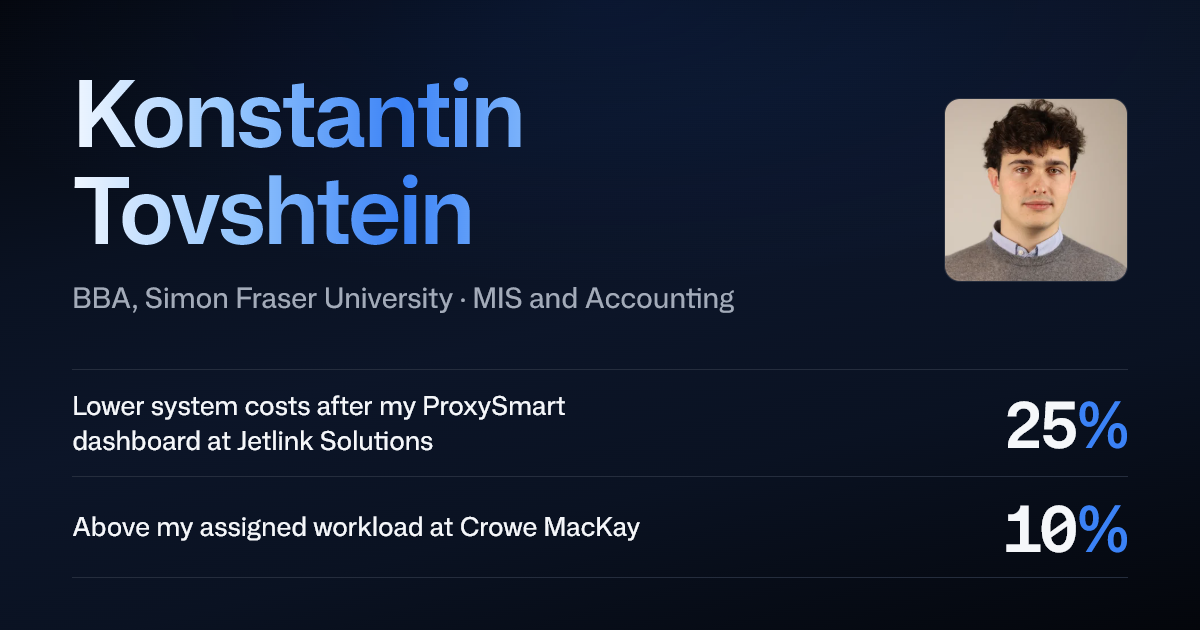
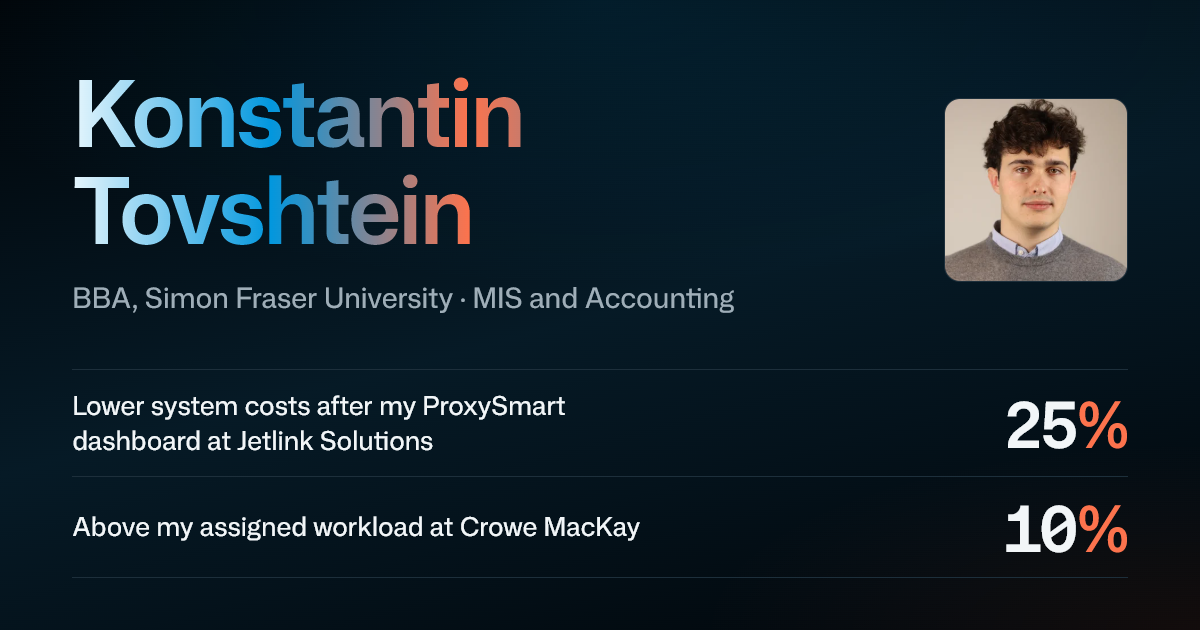
New color scheme

diff --git a/css/style.css b/css/style.css
@@ -1,1 +1,1 @@
-:root{color-scheme:dark;--bg: #05070c;--surface-2: #161d2c;--border: #252d3d;--line: rgb(255 255 255 / 0.08);--text: #f5f7fa;--text-muted: #a3abb9;--text-dim: #7c8597;--accent: #3b82f6;--accent-btn: #2563eb;--accent-hover: #1d4ed8;--accent-mist: #93c5fd;--accent-light: #dbeafe;--on-accent: #ffffff;--accent-rgb: 59 130 246;--accent-btn-rgb: 37 99 235;--glass-rgb: 18 24 38;--bg-rgb: 5 7 12;--font-sans: 'KT Sans', 'KT Sans Fallback', system-ui, sans-serif;--nav-h: 5.6rem;--transition: 200ms ease}@font-face{font-family:"KT Sans";font-style:normal;font-display:swap;font-weight:400 800;font-stretch:100% 125%;src:url("../assets/fonts/kt-sans-latin-var.woff2") format("woff2-variations"),url("../assets/fonts/kt-sans-latin-var.woff2") format("woff2");unicode-range:U+0000-00FF,U+0131,U+0152-0153,U+02BB-02BC,U+02C6,U+02DA,U+02DC,U+0304,U+0308,U+0329,U+2000-206F,U+20AC,U+2122,U+2190-2199,U+2212,U+2215,U+FEFF,U+FFFD}@font-face{font-family:"KT Sans Fallback";src:local("Arial"),local("ArialMT"),local("Helvetica Neue"),local("Helvetica"),local("Arimo"),local("Liberation Sans");size-adjust:101.22%;ascent-override:107.69%;descent-override:31.62%;line-gap-override:0%}*,*::after,*::before{margin:0;padding:0;box-sizing:inherit;font-family:inherit}html{font-size:62.5%;scroll-behavior:smooth;background:var(--bg)}body{font-size:1.6rem;font-weight:430;line-height:1.65;text-wrap:pretty;box-sizing:border-box;position:relative;overflow-x:hidden;overflow-y:scroll;font-family:var(--font-sans);font-feature-settings:"kern" 1,"ss05" 1,"ss06" 1;color:var(--text);-webkit-font-smoothing:antialiased;-moz-osx-font-smoothing:grayscale}h1,h2,h3,h4{font-weight:inherit;text-wrap:balance}p,li,figcaption{text-wrap:pretty}a{text-decoration:none;color:inherit}li{list-style:none}img{display:block;max-width:100%}strong{font-weight:600;color:var(--text)}::-moz-selection{background:var(--accent-btn);color:var(--on-accent)}::selection{background:var(--accent-btn);color:var(--on-accent)}.sr-only{position:absolute;width:1px;height:1px;overflow:hidden;clip-path:inset(50%);white-space:nowrap}.skip-link{position:absolute;top:1.2rem;left:1.6rem;z-index:2000;font-size:1.5rem;font-weight:600;line-height:1.4;padding:1.2rem 2rem;background:var(--accent-btn);color:var(--on-accent);border-radius:8px;transform:translateY(-200%);transition:transform var(--transition)}.skip-link:focus{transform:translateY(0)}main:focus{outline:none}:focus{outline:none}:focus-visible{outline:2px solid var(--accent);outline-offset:3px}button{border:none;cursor:pointer;background:none;color:inherit}@media(prefers-reduced-motion: reduce){html{scroll-behavior:auto}*,*::before,*::after{animation-duration:.01ms !important;animation-iteration-count:1 !important;transition-duration:.01ms !important}}.page-bg{position:fixed;inset:0;z-index:-1;pointer-events:none;background:radial-gradient(90% 70% at 50% 0%, rgb(var(--accent-btn-rgb)/0.12), transparent 65%),linear-gradient(165deg, #04060b 0%, #0a1222 30%, #0c1528 50%, #0a1222 70%, #04060b 100%)}.page-bg__streaks{display:block;width:100%;height:100%;opacity:.5;transition:opacity 1.4s ease}.page-home .page-bg__streaks{opacity:1}.page-home.past-hero .page-bg__streaks{opacity:.35}.nav{position:fixed;top:0;left:0;right:0;z-index:100;background:rgb(var(--bg-rgb)/0.7);backdrop-filter:blur(10px);border-bottom:1px solid var(--line)}.nav__inner{max-width:104rem;height:var(--nav-h);margin:0 auto;padding:0 2.4rem;display:flex;align-items:center;justify-content:space-between;gap:1.6rem}@media only screen and (max-width: 37.5em){.nav__inner{padding:0 1.2rem 0 1.6rem}}.nav__logo{font-size:1.5rem;font-weight:600;line-height:1.4;color:var(--text);transition:color var(--transition)}.nav__logo:hover{color:var(--accent-mist)}@media only screen and (max-width: 37.5em){.nav__logo{width:-moz-min-content;width:min-content;line-height:1.15}}.nav__links{display:flex}@media only screen and (max-width: 37.5em){.nav__links li:first-child{display:none}}.nav__link{font-size:1.5rem;font-weight:600;line-height:1.4;font-weight:500;display:block;padding:1.2rem 1rem;color:var(--text-muted);transition:color var(--transition)}.nav__link:hover,.nav__link[aria-current=page]{color:var(--text)}@media only screen and (max-width: 37.5em){.nav__link{padding-inline:.6rem}}.btn{font-size:1.5rem;font-weight:600;line-height:1.4;display:inline-flex;align-items:center;justify-content:center;min-height:4.4rem;padding:1rem 2.6rem;border:1px solid rgb(var(--accent-rgb)/0.6);border-radius:8px;background:var(--accent-btn);color:var(--on-accent);transition:background-color var(--transition)}.btn:hover{background:var(--accent-hover)}.text-link{font-size:1.5rem;font-weight:600;line-height:1.4;font-weight:500;display:inline-block;padding:1.2rem 0;color:var(--accent-mist);transition:color var(--transition)}.text-link:hover{color:var(--accent-light)}.pills{display:flex;flex-wrap:wrap;gap:1rem}.pill{font-size:1.5rem;font-weight:600;line-height:1.4;font-weight:500;display:inline-flex;align-items:center;gap:.8rem;min-height:4.4rem;padding:.6rem 1.6rem;border:1px solid rgba(255, 255, 255, 0.1);border-radius:999px;background:rgba(255, 255, 255, 0.04);color:var(--text-muted);transition:color var(--transition),border-color var(--transition),background-color var(--transition)}.pill:hover{color:var(--text);border-color:rgb(var(--accent-rgb)/0.45);background:rgb(var(--accent-btn-rgb)/0.14)}.pill--icon{width:4.4rem;padding:0;justify-content:center}.pill__icon{flex-shrink:0;width:1.8rem;height:1.8rem}.tags{display:flex;flex-wrap:wrap;gap:.8rem}.tag{font-size:1.25rem;font-weight:550;line-height:1.4;letter-spacing:.01em;padding:.4rem 1.1rem;border:1px solid rgba(255, 255, 255, 0.12);border-radius:999px;background:rgba(255, 255, 255, 0.03);color:var(--text-muted)}.label{font-size:1.25rem;font-weight:550;line-height:1.4;letter-spacing:.01em;display:inline-block;padding:.3rem .8rem;border-radius:4px;background:rgb(var(--accent-btn-rgb)/0.28);color:var(--accent-light)}.badge{font-size:1.25rem;font-weight:550;line-height:1.4;letter-spacing:.01em;display:inline-flex;align-items:center;gap:.6rem;color:var(--text-muted);white-space:nowrap}.badge svg{flex-shrink:0}.container{max-width:76.8rem;margin:0 auto;padding:0 2.4rem}.container--wide{max-width:96rem}@media only screen and (max-width: 37.5em){.container{padding:0 1.6rem}}.section{padding:4rem 0;scroll-margin-top:var(--nav-h)}.section-title{font-size:2.1rem;font-weight:650;line-height:1.3;letter-spacing:-0.02em;color:var(--text);min-height:1.3em;margin-bottom:2.4rem}.type-caret{display:inline-block;width:2px;height:1em;margin-left:2px;background:currentColor;vertical-align:text-bottom;animation:caret-blink 1s step-end infinite}@keyframes caret-blink{50%{opacity:0}}.panel{background:rgb(var(--glass-rgb)/0.45);backdrop-filter:blur(10px);border:1px solid var(--line);box-shadow:0 2px 16px rgba(0, 0, 0, 0.12);border-radius:12px;padding:3.6rem 2.8rem}@media only screen and (max-width: 37.5em){.panel{padding:2.4rem 2rem}}.js .reveal{opacity:0;transform:translateY(2.8rem);transition:opacity .9s ease-out,transform .9s ease-out}.js .reveal.is-visible{opacity:1;transform:none}@media(prefers-reduced-motion: reduce){.js .reveal{opacity:1;transform:none}}.project-list{display:grid;gap:2rem}.project-grid{display:grid;grid-template-columns:repeat(2, 1fr);gap:2rem}@media only screen and (max-width: 56.25em){.project-grid{grid-template-columns:1fr}}.project-card{background:rgb(var(--glass-rgb)/0.45);backdrop-filter:blur(10px);border:1px solid var(--line);box-shadow:0 2px 16px rgba(0, 0, 0, 0.12);display:flex;flex-direction:column;padding:2rem 2.4rem 2.4rem;border-radius:8px;overflow:hidden;color:inherit;transition:background-color var(--transition),border-color var(--transition),transform 220ms ease}.project-card__media{height:18rem;margin:-2rem -2.4rem 1.8rem;background:rgba(0, 0, 0, 0.25)}.project-card__media img{width:100%;height:100%;-o-object-fit:cover;object-fit:cover;-o-object-position:center top;object-position:center top;transition:transform 250ms ease}.project-card__top{display:flex;flex-wrap:wrap;align-items:center;justify-content:space-between;gap:.8rem 1.6rem;margin-bottom:1.2rem}.project-card__title{font-size:1.8rem;font-weight:650;line-height:1.35;letter-spacing:-0.01em;text-wrap:balance;color:var(--text);margin-bottom:.8rem}.project-card__desc{font-size:1.6rem;font-weight:430;line-height:1.65;text-wrap:pretty;color:var(--text-muted);margin-bottom:1.8rem}.project-card .tags{margin-top:auto}a.project-card:hover{background-color:rgba(28, 38, 60, 0.55);border-color:rgb(var(--accent-rgb)/0.3);transform:translateY(-2px)}a.project-card:hover .project-card__media img{transform:scale(1.03)}.see-all{margin-top:1.2rem}.entry{padding-bottom:2.8rem;border-bottom:1px solid var(--line)}.entry+.entry{padding-top:2.8rem}.entry:last-child{padding-bottom:0;border-bottom:0}.entry__head{display:flex;flex-wrap:wrap;align-items:flex-start;gap:.4rem 1.8rem}.entry__titles{flex:1;min-width:0}.entry__when{font-size:1.4rem;font-weight:430;line-height:1.5;color:var(--text-dim);text-align:right;white-space:nowrap}@media only screen and (max-width: 37.5em){.entry__when{flex-basis:100%;padding-left:6.6rem;text-align:left}.entry__when p{display:inline}.entry__when p+p::before{content:" · "}}.entry__logo{flex:none;display:grid;place-items:center;width:5.6rem;height:5.6rem;border:1px solid rgb(var(--accent-rgb)/0.3);border-radius:1rem;background:rgb(var(--accent-btn-rgb)/0.14);color:var(--accent-mist);font-size:1.5rem;font-weight:700;letter-spacing:.02em}@media only screen and (max-width: 37.5em){.entry__logo{width:4.8rem;height:4.8rem;font-size:1.35rem}}.entry__role{font-size:1.8rem;font-weight:650;line-height:1.35;letter-spacing:-0.01em;text-wrap:balance;font-size:1.7rem;color:var(--text)}.entry__org{font-size:1.5rem;font-weight:430;line-height:1.5;color:var(--text-muted);margin-top:.2rem}.entry__meta{font-size:1.4rem;font-weight:430;line-height:1.5;color:var(--text-dim);margin-top:.2rem}.entry__points{margin:1.6rem 0 1.2rem;padding-left:2rem}.entry__points li{font-size:1.6rem;font-weight:430;line-height:1.65;text-wrap:pretty;list-style:disc;color:var(--text-muted);margin-bottom:.6rem}.entry__points li::marker{color:var(--text-dim)}.entry__skills{font-size:1.4rem;font-weight:430;line-height:1.5;color:var(--text-dim)}.entry__links{display:flex;flex-wrap:wrap;gap:0 2.4rem;margin-top:.4rem}.contact{padding-bottom:10rem}.contact__head{display:flex;flex-wrap:wrap;align-items:center;justify-content:space-between;gap:1rem 2rem;margin-bottom:1.6rem}.contact__head .section-title{margin-bottom:0}.contact__intro{font-size:1.6rem;font-weight:430;line-height:1.65;text-wrap:pretty;color:var(--text-muted);margin-bottom:2.4rem}.contact__actions{display:flex;flex-wrap:wrap;align-items:center;gap:1.2rem 2rem}.contact__email,.contact__alt{font-size:1.5rem;font-weight:430;line-height:1.5;color:var(--text-muted)}.contact__email a,.contact__alt a{color:var(--accent-mist);text-decoration:underline;text-underline-offset:.4rem;overflow-wrap:anywhere}.contact__alt{margin-top:2.4rem}html.lenis,html.lenis body{height:auto}html.lenis{scroll-behavior:auto}.lenis:not(.lenis-autoToggle).lenis-stopped{overflow:clip}.lenis [data-lenis-prevent],.lenis [data-lenis-prevent-wheel],.lenis [data-lenis-prevent-touch],.lenis [data-lenis-prevent-vertical],.lenis [data-lenis-prevent-horizontal]{overscroll-behavior:contain}.lenis.lenis-smooth iframe{pointer-events:none}.lenis.lenis-autoToggle{transition-property:overflow;transition-duration:1ms;transition-behavior:allow-discrete}section[tabindex="-1"]:focus{outline:none}.hero{position:relative;min-height:100vh;min-height:100svh;display:flex;align-items:center;justify-content:center;padding:calc(var(--nav-h) + 2rem) 1.6rem 8rem;text-align:center}.hero__content{max-width:96rem}.hero__name{font-size:clamp(5.6rem,15vw,11.2rem);font-weight:650;line-height:1.08;letter-spacing:-0.03em;margin-bottom:1.6rem;background-image:linear-gradient(90deg, #eff6ff 0%, #93c5fd 12.5%, #3b82f6 25%, #93c5fd 37.5%, #eff6ff 50%, #93c5fd 62.5%, #3b82f6 75%, #93c5fd 87.5%, #eff6ff 100%);background-size:200% 100%;background-position:100% 50%;-webkit-background-clip:text;background-clip:text;color:transparent;animation:name-wave 8s linear infinite}.hero__sub{font-size:1.8rem;font-weight:430;line-height:1.65;text-wrap:pretty;color:var(--text-muted)}.hero__arrow{position:absolute;bottom:2.4rem;left:50%;transform:translateX(-50%);display:grid;place-items:center;width:4.4rem;height:4.4rem;color:rgba(255, 255, 255, 0.6);opacity:0;animation:arrow-in .6s ease 1.2s forwards;transition:color var(--transition)}.hero__arrow:hover{color:rgba(255, 255, 255, 0.95)}.hero__arrow-icon{width:0;height:0;border-left:6px solid transparent;border-right:6px solid transparent;border-top:8px solid currentColor}@keyframes name-wave{to{background-position:0% 50%}}@keyframes arrow-in{to{opacity:1}}.intro{display:flex;align-items:center;gap:4rem}.intro__text{flex:1;min-width:0}.intro__lead{font-size:1.8rem;font-weight:430;line-height:1.65;text-wrap:pretty;color:var(--text-muted);margin-bottom:2.4rem}.intro__photo{flex:none;width:14rem;height:14rem;-o-object-fit:cover;object-fit:cover;border:1px solid var(--line);border-radius:12px;filter:grayscale(30%) contrast(0.95)}@media only screen and (max-width: 37.5em){.intro{flex-direction:column-reverse;align-items:flex-start;gap:2.4rem}.intro__photo{width:11rem;height:11rem}}.skill-groups{display:grid;grid-template-columns:repeat(2, 1fr);gap:2.8rem 3.6rem}@media only screen and (max-width: 37.5em){.skill-groups{grid-template-columns:1fr}}.skill-group__title{font-size:1.35rem;font-weight:650;line-height:1.4;letter-spacing:.06em;text-transform:uppercase;font-feature-settings:"kern" 1,"ss05" 1,"ss06" 1,"case" 1;color:var(--text-muted);margin-bottom:1.2rem}.note{font-size:1.6rem;font-weight:430;line-height:1.65;text-wrap:pretty;max-width:34em;margin-top:3.2rem;color:var(--text-muted)}.mini-grid{display:grid;grid-template-columns:repeat(2, 1fr);gap:2rem}@media only screen and (max-width: 37.5em){.mini-grid{grid-template-columns:1fr}}.mini{background:rgb(var(--glass-rgb)/0.45);backdrop-filter:blur(10px);border:1px solid var(--line);box-shadow:0 2px 16px rgba(0, 0, 0, 0.12);padding:2.2rem 2.4rem;border-radius:8px}.mini__title{font-size:1.8rem;font-weight:650;line-height:1.35;letter-spacing:-0.01em;text-wrap:balance;font-size:1.7rem;color:var(--text);margin-bottom:.8rem}.mini__desc{font-size:1.6rem;font-weight:430;line-height:1.65;text-wrap:pretty;color:var(--text-muted)}.page-head{padding:calc(var(--nav-h) + 7rem) 0 1rem;text-align:center}.page-title{font-size:clamp(4.4rem,10vw,7.2rem);font-weight:650;line-height:1.1;letter-spacing:-0.03em;min-height:1.1em;margin-bottom:3.6rem;color:var(--accent-mist)}.projects-intro{padding:2.4rem 2.8rem;text-align:left}.projects-intro__text{font-size:1.6rem;font-weight:430;line-height:1.65;text-wrap:pretty;color:var(--text-muted);margin-bottom:1.8rem}.category{padding-top:4.8rem;scroll-margin-top:calc(var(--nav-h) + 1.6rem)}.category:last-of-type{padding-bottom:10rem}.category__title{font-size:1.35rem;font-weight:650;line-height:1.4;letter-spacing:.06em;text-transform:uppercase;font-feature-settings:"kern" 1,"ss05" 1,"ss06" 1,"case" 1;color:var(--text-muted);margin-bottom:1.6rem}.case-page{padding:calc(var(--nav-h) + 4rem) 0 8rem}.case{background:rgb(var(--glass-rgb)/0.45);backdrop-filter:blur(10px);border:1px solid var(--line);box-shadow:0 2px 16px rgba(0, 0, 0, 0.12);padding:3.6rem 3.2rem;border-radius:12px}@media only screen and (max-width: 37.5em){.case{padding:2.4rem 2rem}}.case__back{margin-bottom:.8rem}.case__back a{font-size:1.5rem;font-weight:430;line-height:1.5;display:inline-block;padding:1rem 0;color:var(--accent-mist);transition:color var(--transition)}.case__back a:hover{color:var(--accent-light)}.case__title{font-size:2.8rem;font-weight:650;line-height:1.25;letter-spacing:-0.02em;text-wrap:balance;color:var(--text);margin-bottom:1rem}.case__desc{font-size:1.6rem;font-weight:430;line-height:1.65;text-wrap:pretty;color:var(--text-muted)}.case__meta{display:flex;flex-wrap:wrap;align-items:center;justify-content:space-between;gap:.4rem 2rem;margin-top:1rem}.case__links{display:flex;flex-wrap:wrap;gap:0 2.4rem}.case__figure{margin:2.8rem 0 .8rem}.case__figure img{width:100%;height:auto;border:1px solid var(--line);border-radius:8px}.case__figure figcaption{font-size:1.4rem;font-weight:430;line-height:1.5;margin-top:1.2rem;text-align:center;text-wrap:balance;color:var(--text-dim)}.case__section{margin-top:3.2rem}.case__section h2{font-size:1.35rem;font-weight:650;line-height:1.4;letter-spacing:.06em;text-transform:uppercase;font-feature-settings:"kern" 1,"ss05" 1,"ss06" 1,"case" 1;color:var(--text);margin-bottom:1.2rem}.case__section p{font-size:1.6rem;font-weight:430;line-height:1.65;text-wrap:pretty;max-width:34em;color:var(--text-muted);margin-bottom:1.4rem}
+:root{color-scheme:dark;--bg: #02070a;--surface-2: #0b1821;--border: #1d2f3b;--line: rgb(255 255 255 / 0.08);--text: #f2f6f8;--text-muted: #9faeb8;--text-dim: #758794;--accent: #0297de;--accent-hover: #28a7e3;--accent-mist: #5bbbea;--warm: #fc734d;--on-accent: #02070a;--accent-rgb: 2 151 222;--warm-rgb: 252 115 77;--glass-rgb: 12 24 32;--bg-rgb: 2 7 10;--font-sans: 'KT Sans', 'KT Sans Fallback', system-ui, sans-serif;--nav-h: 5.6rem;--transition: 200ms ease}@font-face{font-family:"KT Sans";font-style:normal;font-display:swap;font-weight:400 800;font-stretch:100% 125%;src:url("../assets/fonts/kt-sans-latin-var.woff2") format("woff2-variations"),url("../assets/fonts/kt-sans-latin-var.woff2") format("woff2");unicode-range:U+0000-00FF,U+0131,U+0152-0153,U+02BB-02BC,U+02C6,U+02DA,U+02DC,U+0304,U+0308,U+0329,U+2000-206F,U+20AC,U+2122,U+2190-2199,U+2212,U+2215,U+FEFF,U+FFFD}@font-face{font-family:"KT Sans Fallback";src:local("Arial"),local("ArialMT"),local("Helvetica Neue"),local("Helvetica"),local("Arimo"),local("Liberation Sans");size-adjust:101.22%;ascent-override:107.69%;descent-override:31.62%;line-gap-override:0%}*,*::after,*::before{margin:0;padding:0;box-sizing:inherit;font-family:inherit}html{font-size:62.5%;scroll-behavior:smooth;background:var(--bg)}body{font-size:1.6rem;font-weight:430;line-height:1.65;text-wrap:pretty;box-sizing:border-box;position:relative;overflow-x:hidden;overflow-y:scroll;font-family:var(--font-sans);font-feature-settings:"kern" 1,"ss05" 1,"ss06" 1;color:var(--text);-webkit-font-smoothing:antialiased;-moz-osx-font-smoothing:grayscale}h1,h2,h3,h4{font-weight:inherit;text-wrap:balance}p,li,figcaption{text-wrap:pretty}a{text-decoration:none;color:inherit}li{list-style:none}img{display:block;max-width:100%}strong{font-weight:600;color:var(--text)}::-moz-selection{background:var(--accent);color:var(--on-accent)}::selection{background:var(--accent);color:var(--on-accent)}.sr-only{position:absolute;width:1px;height:1px;overflow:hidden;clip-path:inset(50%);white-space:nowrap}.skip-link{position:absolute;top:1.2rem;left:1.6rem;z-index:2000;font-size:1.5rem;font-weight:600;line-height:1.4;padding:1.2rem 2rem;background:var(--accent);color:var(--on-accent);border-radius:8px;transform:translateY(-200%);transition:transform var(--transition)}.skip-link:focus{transform:translateY(0)}main:focus{outline:none}:focus{outline:none}:focus-visible{outline:2px solid var(--accent);outline-offset:3px}button{border:none;cursor:pointer;background:none;color:inherit}@media(prefers-reduced-motion: reduce){html{scroll-behavior:auto}*,*::before,*::after{animation-duration:.01ms !important;animation-iteration-count:1 !important;transition-duration:.01ms !important}}.page-bg{position:fixed;inset:0;z-index:-1;pointer-events:none;background:radial-gradient(90% 70% at 50% 0%, rgb(var(--accent-rgb)/0.12), transparent 65%),radial-gradient(70% 50% at 100% 100%, rgb(var(--warm-rgb)/0.07), transparent 60%),linear-gradient(165deg, #010407 0%, #04121b 30%, #061a26 50%, #04121b 70%, #010407 100%)}.page-bg__streaks{display:block;width:100%;height:100%;opacity:.5;transition:opacity 1.4s ease}.page-home .page-bg__streaks{opacity:1}.page-home.past-hero .page-bg__streaks{opacity:.35}.nav{position:fixed;top:0;left:0;right:0;z-index:100;background:rgb(var(--bg-rgb)/0.7);backdrop-filter:blur(10px);border-bottom:1px solid var(--line)}.nav__inner{max-width:104rem;height:var(--nav-h);margin:0 auto;padding:0 2.4rem;display:flex;align-items:center;justify-content:space-between;gap:1.6rem}@media only screen and (max-width: 37.5em){.nav__inner{padding:0 1.2rem 0 1.6rem}}.nav__logo{font-size:1.5rem;font-weight:600;line-height:1.4;color:var(--text);transition:color var(--transition)}.nav__logo:hover{color:var(--accent-mist)}@media only screen and (max-width: 37.5em){.nav__logo{width:-moz-min-content;width:min-content;line-height:1.15}}.nav__links{display:flex}@media only screen and (max-width: 37.5em){.nav__links li:first-child{display:none}}.nav__link{font-size:1.5rem;font-weight:600;line-height:1.4;font-weight:500;display:block;padding:1.2rem 1rem;color:var(--text-muted);transition:color var(--transition)}.nav__link:hover,.nav__link[aria-current=page]{color:var(--text)}@media only screen and (max-width: 37.5em){.nav__link{padding-inline:.6rem}}.btn{font-size:1.5rem;font-weight:600;line-height:1.4;display:inline-flex;align-items:center;justify-content:center;min-height:4.4rem;padding:1rem 2.6rem;border:1px solid transparent;border-radius:8px;background:var(--accent);color:var(--on-accent);transition:background-color var(--transition)}.btn:hover{background:var(--accent-hover)}.text-link{font-size:1.5rem;font-weight:600;line-height:1.4;font-weight:500;display:inline-block;padding:1.2rem 0;color:var(--accent);transition:color var(--transition)}.text-link:hover{color:var(--accent-mist)}.pills{display:flex;flex-wrap:wrap;gap:1rem}.pill{font-size:1.5rem;font-weight:600;line-height:1.4;font-weight:500;display:inline-flex;align-items:center;gap:.8rem;min-height:4.4rem;padding:.6rem 1.6rem;border:1px solid rgba(255, 255, 255, 0.1);border-radius:999px;background:rgba(255, 255, 255, 0.04);color:var(--text-muted);transition:color var(--transition),border-color var(--transition),background-color var(--transition)}.pill:hover{color:var(--text);border-color:rgb(var(--accent-rgb)/0.45);background:rgb(var(--accent-rgb)/0.14)}.pill--icon{width:4.4rem;padding:0;justify-content:center}.pill__icon{flex-shrink:0;width:1.8rem;height:1.8rem}.tags{display:flex;flex-wrap:wrap;gap:.8rem}.tag{font-size:1.25rem;font-weight:550;line-height:1.4;letter-spacing:.01em;padding:.4rem 1.1rem;border:1px solid rgba(255, 255, 255, 0.12);border-radius:999px;background:rgba(255, 255, 255, 0.03);color:var(--text-muted)}.label{font-size:1.25rem;font-weight:550;line-height:1.4;letter-spacing:.01em;display:inline-block;padding:.3rem .8rem;border-radius:4px;background:rgb(var(--warm-rgb)/0.16);color:var(--warm)}.badge{font-size:1.25rem;font-weight:550;line-height:1.4;letter-spacing:.01em;display:inline-flex;align-items:center;gap:.6rem;color:var(--text-muted);white-space:nowrap}.badge svg{flex-shrink:0}.container{max-width:76.8rem;margin:0 auto;padding:0 2.4rem}.container--wide{max-width:96rem}@media only screen and (max-width: 37.5em){.container{padding:0 1.6rem}}.section{padding:4rem 0;scroll-margin-top:var(--nav-h)}.section-title{font-size:2.1rem;font-weight:650;line-height:1.3;letter-spacing:-0.02em;color:var(--text);min-height:1.3em;margin-bottom:2.4rem}.type-caret{display:inline-block;width:2px;height:1em;margin-left:2px;vertical-align:text-bottom;background:var(--warm);animation:caret-blink 1s step-end infinite}@keyframes caret-blink{50%{opacity:0}}.panel{background:rgb(var(--glass-rgb)/0.45);backdrop-filter:blur(10px);border:1px solid var(--line);box-shadow:0 2px 16px rgba(0, 0, 0, 0.12);border-radius:12px;padding:3.6rem 2.8rem}@media only screen and (max-width: 37.5em){.panel{padding:2.4rem 2rem}}.js .reveal{opacity:0;transform:translateY(2.8rem);transition:opacity .9s ease-out,transform .9s ease-out}.js .reveal.is-visible{opacity:1;transform:none}@media(prefers-reduced-motion: reduce){.js .reveal{opacity:1;transform:none}}.project-list{display:grid;gap:2rem}.project-grid{display:grid;grid-template-columns:repeat(2, 1fr);gap:2rem}@media only screen and (max-width: 56.25em){.project-grid{grid-template-columns:1fr}}.project-card{background:rgb(var(--glass-rgb)/0.45);backdrop-filter:blur(10px);border:1px solid var(--line);box-shadow:0 2px 16px rgba(0, 0, 0, 0.12);display:flex;flex-direction:column;padding:2rem 2.4rem 2.4rem;border-radius:8px;overflow:hidden;color:inherit;transition:background-color var(--transition),border-color var(--transition),transform 220ms ease}.project-card__media{height:18rem;margin:-2rem -2.4rem 1.8rem;background:rgba(0, 0, 0, 0.25)}.project-card__media img{width:100%;height:100%;-o-object-fit:cover;object-fit:cover;-o-object-position:center top;object-position:center top;transition:transform 250ms ease}.project-card__top{display:flex;flex-wrap:wrap;align-items:center;justify-content:space-between;gap:.8rem 1.6rem;margin-bottom:1.2rem}.project-card__title{font-size:1.8rem;font-weight:650;line-height:1.35;letter-spacing:-0.01em;text-wrap:balance;color:var(--text);margin-bottom:.8rem}.project-card__desc{font-size:1.6rem;font-weight:430;line-height:1.65;text-wrap:pretty;color:var(--text-muted);margin-bottom:1.8rem}.project-card .tags{margin-top:auto}a.project-card:hover{background-color:rgba(14, 32, 44, 0.55);border-color:rgb(var(--accent-rgb)/0.3);transform:translateY(-2px)}a.project-card:hover .project-card__media img{transform:scale(1.03)}.see-all{margin-top:1.2rem}.entry{padding-bottom:2.8rem;border-bottom:1px solid var(--line)}.entry+.entry{padding-top:2.8rem}.entry:last-child{padding-bottom:0;border-bottom:0}.entry__head{display:flex;flex-wrap:wrap;align-items:flex-start;gap:.4rem 1.8rem}.entry__titles{flex:1;min-width:0}.entry__when{font-size:1.4rem;font-weight:430;line-height:1.5;color:var(--text-dim);text-align:right;white-space:nowrap}@media only screen and (max-width: 37.5em){.entry__when{flex-basis:100%;padding-left:6.6rem;text-align:left}.entry__when p{display:inline}.entry__when p+p::before{content:" · "}}.entry__logo{flex:none;display:grid;place-items:center;width:5.6rem;height:5.6rem;border:1px solid rgb(var(--accent-rgb)/0.3);border-radius:1rem;background:rgb(var(--accent-rgb)/0.14);color:var(--accent-mist);font-size:1.5rem;font-weight:700;letter-spacing:.02em}@media only screen and (max-width: 37.5em){.entry__logo{width:4.8rem;height:4.8rem;font-size:1.35rem}}.entry__role{font-size:1.8rem;font-weight:650;line-height:1.35;letter-spacing:-0.01em;text-wrap:balance;font-size:1.7rem;color:var(--text)}.entry__org{font-size:1.5rem;font-weight:430;line-height:1.5;color:var(--text-muted);margin-top:.2rem}.entry__meta{font-size:1.4rem;font-weight:430;line-height:1.5;color:var(--text-dim);margin-top:.2rem}.entry__points{margin:1.6rem 0 1.2rem;padding-left:2rem}.entry__points li{font-size:1.6rem;font-weight:430;line-height:1.65;text-wrap:pretty;list-style:disc;color:var(--text-muted);margin-bottom:.6rem}.entry__points li::marker{color:var(--text-dim)}.entry__skills{font-size:1.4rem;font-weight:430;line-height:1.5;color:var(--text-dim)}.entry__links{display:flex;flex-wrap:wrap;gap:0 2.4rem;margin-top:.4rem}.contact{padding-bottom:10rem}.contact__head{display:flex;flex-wrap:wrap;align-items:center;justify-content:space-between;gap:1rem 2rem;margin-bottom:1.6rem}.contact__head .section-title{margin-bottom:0}.contact__intro{font-size:1.6rem;font-weight:430;line-height:1.65;text-wrap:pretty;color:var(--text-muted);margin-bottom:2.4rem}.contact__actions{display:flex;flex-wrap:wrap;align-items:center;gap:1.2rem 2rem}.contact__email,.contact__alt{font-size:1.5rem;font-weight:430;line-height:1.5;color:var(--text-muted)}.contact__email a,.contact__alt a{color:var(--accent);text-decoration:underline;text-underline-offset:.4rem;overflow-wrap:anywhere}.contact__alt{margin-top:2.4rem}html.lenis,html.lenis body{height:auto}html.lenis{scroll-behavior:auto}.lenis:not(.lenis-autoToggle).lenis-stopped{overflow:clip}.lenis [data-lenis-prevent],.lenis [data-lenis-prevent-wheel],.lenis [data-lenis-prevent-touch],.lenis [data-lenis-prevent-vertical],.lenis [data-lenis-prevent-horizontal]{overscroll-behavior:contain}.lenis.lenis-smooth iframe{pointer-events:none}.lenis.lenis-autoToggle{transition-property:overflow;transition-duration:1ms;transition-behavior:allow-discrete}section[tabindex="-1"]:focus{outline:none}.hero{position:relative;min-height:100vh;min-height:100svh;display:flex;align-items:center;justify-content:center;padding:calc(var(--nav-h) + 2rem) 1.6rem 8rem;text-align:center}.hero__content{max-width:96rem}.hero__name{font-size:clamp(5.6rem,15vw,11.2rem);font-weight:650;line-height:1.08;letter-spacing:-0.03em;margin-bottom:1.6rem;background-image:linear-gradient(90deg, #e6f6fd 0%, #0297de 12.5%, #fc734d 25%, #0297de 37.5%, #e6f6fd 50%, #0297de 62.5%, #fc734d 75%, #0297de 87.5%, #e6f6fd 100%);background-size:200% 100%;background-position:100% 50%;-webkit-background-clip:text;background-clip:text;color:transparent;animation:name-wave 8s linear infinite}.hero__sub{font-size:1.8rem;font-weight:430;line-height:1.65;text-wrap:pretty;color:var(--text-muted)}.hero__arrow{position:absolute;bottom:2.4rem;left:50%;transform:translateX(-50%);display:grid;place-items:center;width:4.4rem;height:4.4rem;color:rgba(255, 255, 255, 0.6);opacity:0;animation:arrow-in .6s ease 1.2s forwards;transition:color var(--transition)}.hero__arrow:hover{color:rgba(255, 255, 255, 0.95)}.hero__arrow-icon{width:0;height:0;border-left:6px solid transparent;border-right:6px solid transparent;border-top:8px solid currentColor}@keyframes name-wave{to{background-position:0% 50%}}@keyframes arrow-in{to{opacity:1}}.intro{display:flex;align-items:center;gap:4rem}.intro__text{flex:1;min-width:0}.intro__lead{font-size:1.8rem;font-weight:430;line-height:1.65;text-wrap:pretty;color:var(--text-muted);margin-bottom:2.4rem}.intro__lead strong{color:var(--warm)}.intro__photo{flex:none;width:14rem;height:14rem;-o-object-fit:cover;object-fit:cover;border:1px solid var(--line);border-radius:12px;filter:grayscale(30%) contrast(0.95)}@media only screen and (max-width: 37.5em){.intro{flex-direction:column-reverse;align-items:flex-start;gap:2.4rem}.intro__photo{width:11rem;height:11rem}}.skill-groups{display:grid;grid-template-columns:repeat(2, 1fr);gap:2.8rem 3.6rem}@media only screen and (max-width: 37.5em){.skill-groups{grid-template-columns:1fr}}.skill-group__title{font-size:1.35rem;font-weight:650;line-height:1.4;letter-spacing:.06em;text-transform:uppercase;font-feature-settings:"kern" 1,"ss05" 1,"ss06" 1,"case" 1;color:var(--text-muted);margin-bottom:1.2rem}.note{font-size:1.6rem;font-weight:430;line-height:1.65;text-wrap:pretty;max-width:34em;margin-top:3.2rem;color:var(--text-muted)}.mini-grid{display:grid;grid-template-columns:repeat(2, 1fr);gap:2rem}@media only screen and (max-width: 37.5em){.mini-grid{grid-template-columns:1fr}}.mini{background:rgb(var(--glass-rgb)/0.45);backdrop-filter:blur(10px);border:1px solid var(--line);box-shadow:0 2px 16px rgba(0, 0, 0, 0.12);padding:2.2rem 2.4rem;border-radius:8px}.mini__title{font-size:1.8rem;font-weight:650;line-height:1.35;letter-spacing:-0.01em;text-wrap:balance;font-size:1.7rem;color:var(--text);margin-bottom:.8rem}.mini__desc{font-size:1.6rem;font-weight:430;line-height:1.65;text-wrap:pretty;color:var(--text-muted)}.page-head{padding:calc(var(--nav-h) + 7rem) 0 1rem;text-align:center}.page-title{font-size:clamp(4.4rem,10vw,7.2rem);font-weight:650;line-height:1.1;letter-spacing:-0.03em;min-height:1.1em;margin-bottom:3.6rem;color:var(--warm)}.projects-intro{padding:2.4rem 2.8rem;text-align:left}.projects-intro__text{font-size:1.6rem;font-weight:430;line-height:1.65;text-wrap:pretty;color:var(--text-muted);margin-bottom:1.8rem}.category{padding-top:4.8rem;scroll-margin-top:calc(var(--nav-h) + 1.6rem)}.category:last-of-type{padding-bottom:10rem}.category__title{font-size:1.35rem;font-weight:650;line-height:1.4;letter-spacing:.06em;text-transform:uppercase;font-feature-settings:"kern" 1,"ss05" 1,"ss06" 1,"case" 1;color:var(--text-muted);margin-bottom:1.6rem}.case-page{padding:calc(var(--nav-h) + 4rem) 0 8rem}.case{background:rgb(var(--glass-rgb)/0.45);backdrop-filter:blur(10px);border:1px solid var(--line);box-shadow:0 2px 16px rgba(0, 0, 0, 0.12);padding:3.6rem 3.2rem;border-radius:12px}@media only screen and (max-width: 37.5em){.case{padding:2.4rem 2rem}}.case__back{margin-bottom:.8rem}.case__back a{font-size:1.5rem;font-weight:430;line-height:1.5;display:inline-block;padding:1rem 0;color:var(--accent);transition:color var(--transition)}.case__back a:hover{color:var(--accent-mist)}.case__title{font-size:2.8rem;font-weight:650;line-height:1.25;letter-spacing:-0.02em;text-wrap:balance;color:var(--text);margin-bottom:1rem}.case__desc{font-size:1.6rem;font-weight:430;line-height:1.65;text-wrap:pretty;color:var(--text-muted)}.case__meta{display:flex;flex-wrap:wrap;align-items:center;justify-content:space-between;gap:.4rem 2rem;margin-top:1rem}.case__links{display:flex;flex-wrap:wrap;gap:0 2.4rem}.case__figure{margin:2.8rem 0 .8rem}.case__figure img{width:100%;height:auto;border:1px solid var(--line);border-radius:8px}.case__figure figcaption{font-size:1.4rem;font-weight:430;line-height:1.5;margin-top:1.2rem;text-align:center;text-wrap:balance;color:var(--text-dim)}.case__section{margin-top:3.2rem}.case__section h2{font-size:1.35rem;font-weight:650;line-height:1.4;letter-spacing:.06em;text-transform:uppercase;font-feature-settings:"kern" 1,"ss05" 1,"ss06" 1,"case" 1;color:var(--text);margin-bottom:1.2rem}.case__section p{font-size:1.6rem;font-weight:430;line-height:1.65;text-wrap:pretty;max-width:34em;color:var(--text-muted);margin-bottom:1.4rem}

diff --git a/sass/abstracts/_theme.scss b/sass/abstracts/_theme.scss
@@ -1,26 +1,28 @@
 // Dark theme tokens. Change colors here, not in components.
+// Palette: Midnight Black #02070A, Electric Blue #0297DE, Cantaloupe Orange #FC734D.
+// Electric Blue marks what you can press or follow; Cantaloupe marks what you should notice.
 :root {
   color-scheme: dark;
 
-  --bg: #05070c;
-  --surface-2: #161d2c; // used by tools/share-card.html
-  --border: #252d3d; // used by tools/share-card.html
+  --bg: #02070a;
+  --surface-2: #0b1821; // used by tools/share-card.html
+  --border: #1d2f3b; // used by tools/share-card.html
   --line: rgb(255 255 255 / 0.08);
-  --text: #f5f7fa;
-  --text-muted: #a3abb9;
-  --text-dim: #7c8597;
-  --accent: #3b82f6;
-  --accent-btn: #2563eb;
-  --accent-hover: #1d4ed8;
-  --accent-mist: #93c5fd;
-  --accent-light: #dbeafe;
-  --on-accent: #ffffff;
+  --text: #f2f6f8;
+  --text-muted: #9faeb8;
+  --text-dim: #758794;
+  --accent: #0297de;
+  --accent-hover: #28a7e3;
+  --accent-mist: #5bbbea;
+  --warm: #fc734d;
+  // White fails on both accents (3.2:1 and 2.7:1), so filled surfaces carry Midnight text.
+  --on-accent: #02070a;
 
-  // Colour channels for translucent tints, e.g. rgb(var(--accent-btn-rgb) / 0.2)
-  --accent-rgb: 59 130 246;
-  --accent-btn-rgb: 37 99 235;
-  --glass-rgb: 18 24 38;
-  --bg-rgb: 5 7 12;
+  // Colour channels for translucent tints, e.g. rgb(var(--accent-rgb) / 0.2)
+  --accent-rgb: 2 151 222;
+  --warm-rgb: 252 115 77;
+  --glass-rgb: 12 24 32;
+  --bg-rgb: 2 7 10;
 
   // One family for everything; type roles live in abstracts/_type.scss.
   --font-sans: 'KT Sans', 'KT Sans Fallback', system-ui, sans-serif;

diff --git a/tools/share-card.html b/tools/share-card.html
@@ -39,8 +39,9 @@
         font-feature-settings: 'kern' 1, 'ss05' 1, 'ss06' 1;
         /* Same wash as the site's .page-bg. */
         background:
-          radial-gradient(90% 70% at 50% 0%, rgb(var(--accent-btn-rgb) / 0.12), transparent 65%),
-          linear-gradient(165deg, #04060b 0%, #0a1222 30%, #0c1528 50%, #0a1222 70%, #04060b 100%);
+          radial-gradient(90% 70% at 50% 0%, rgb(var(--accent-rgb) / 0.12), transparent 65%),
+          radial-gradient(70% 50% at 100% 100%, rgb(var(--warm-rgb) / 0.07), transparent 60%),
+          linear-gradient(165deg, #010407 0%, #04121b 30%, #061a26 50%, #04121b 70%, #010407 100%);
       }
 
       .card__top {
@@ -57,7 +58,7 @@
         line-height: 1.05;
         letter-spacing: -0.03em;
         /* The hero's gradient, frozen. */
-        background-image: linear-gradient(90deg, #eff6ff 0%, #93c5fd 25%, #3b82f6 50%, #93c5fd 75%, #eff6ff 100%);
+        background-image: linear-gradient(90deg, #e6f6fd 0%, #0297de 30%, #fc734d 60%, #0297de 100%);
         -webkit-background-clip: text;
         background-clip: text;
         color: transparent;
@@ -115,7 +116,7 @@
       }
 
       .ledger__value span {
-        color: var(--accent);
+        color: var(--warm);
       }
     </style>
   </head>

diff --git a/sass/components/_controls.scss b/sass/components/_controls.scss
@@ -5,9 +5,9 @@
   justify-content: center;
   min-height: 4.4rem;
   padding: 1rem 2.6rem;
-  border: 1px solid rgb(var(--accent-rgb) / 0.6);
+  border: 1px solid transparent;
   border-radius: $radius-md;
-  background: var(--accent-btn);
+  background: var(--accent);
   color: var(--on-accent);
   transition: background-color var(--transition);
 
@@ -22,11 +22,11 @@
   font-weight: 500;
   display: inline-block;
   padding: 1.2rem 0;
-  color: var(--accent-mist);
+  color: var(--accent);
   transition: color var(--transition);
 
   &:hover {
-    color: var(--accent-light);
+    color: var(--accent-mist);
   }
 }
 
@@ -53,7 +53,7 @@
   &:hover {
     color: var(--text);
     border-color: rgb(var(--accent-rgb) / 0.45);
-    background: rgb(var(--accent-btn-rgb) / 0.14);
+    background: rgb(var(--accent-rgb) / 0.14);
   }
 
   &--icon {
@@ -89,8 +89,8 @@
   display: inline-block;
   padding: 0.3rem 0.8rem;
   border-radius: $radius-sm;
-  background: rgb(var(--accent-btn-rgb) / 0.28);
-  color: var(--accent-light);
+  background: rgb(var(--warm-rgb) / 0.16);
+  color: var(--warm);
 }
 
 .badge {

diff --git a/sass/pages/_home.scss b/sass/pages/_home.scss
@@ -12,21 +12,21 @@
     max-width: 96rem;
   }
 
-  // A light-to-blue band that slides across the name; one full period every 8s.
+  // An Electric Blue band with a Cantaloupe core slides across the name; one full period every 8s.
   &__name {
     @include type-display;
     margin-bottom: 1.6rem;
     background-image: linear-gradient(
       90deg,
-      #eff6ff 0%,
-      #93c5fd 12.5%,
-      #3b82f6 25%,
-      #93c5fd 37.5%,
-      #eff6ff 50%,
-      #93c5fd 62.5%,
-      #3b82f6 75%,
-      #93c5fd 87.5%,
-      #eff6ff 100%
+      #e6f6fd 0%,
+      #0297de 12.5%,
+      #fc734d 25%,
+      #0297de 37.5%,
+      #e6f6fd 50%,
+      #0297de 62.5%,
+      #fc734d 75%,
+      #0297de 87.5%,
+      #e6f6fd 100%
     );
     background-size: 200% 100%;
     background-position: 100% 50%;
@@ -95,6 +95,11 @@
     @include type-lead;
     color: var(--text-muted);
     margin-bottom: 2.4rem;
+
+    // The two figures: Cantaloupe marks what to notice.
+    strong {
+      color: var(--warm);
+    }
   }
 
   &__photo {

diff --git a/sass/components/_background.scss b/sass/components/_background.scss
@@ -1,12 +1,14 @@
-// Fixed layer behind every page: a blue-black wash, with streaks drawn on the canvas by index.js.
+// Fixed layer behind every page: a Midnight wash lit blue from the top and warmed orange from the
+// bottom corner, with streaks drawn on the canvas by index.js.
 .page-bg {
   position: fixed;
   inset: 0;
   z-index: -1;
   pointer-events: none;
   background:
-    radial-gradient(90% 70% at 50% 0%, rgb(var(--accent-btn-rgb) / 0.12), transparent 65%),
-    linear-gradient(165deg, #04060b 0%, #0a1222 30%, #0c1528 50%, #0a1222 70%, #04060b 100%);
+    radial-gradient(90% 70% at 50% 0%, rgb(var(--accent-rgb) / 0.12), transparent 65%),
+    radial-gradient(70% 50% at 100% 100%, rgb(var(--warm-rgb) / 0.07), transparent 60%),
+    linear-gradient(165deg, #010407 0%, #04121b 30%, #061a26 50%, #04121b 70%, #010407 100%);
 
   &__streaks {
     display: block;

diff --git a/jetlink.html b/jetlink.html
@@ -3,7 +3,7 @@
   <head>
     <meta charset="UTF-8" />
     <meta name="viewport" content="width=device-width, initial-scale=1.0" />
-    <meta name="theme-color" content="#05070c" />
+    <meta name="theme-color" content="#02070a" />
     <meta name="color-scheme" content="dark" />
     <title>Project Coordinator | Jetlink Solutions | Konstantin Tovshtein</title>
     <meta name="description" content="Case study: ProxySmart, a proxy infrastructure dashboard by Konstantin Tovshtein that helped Jetlink Solutions cut system costs by 25%." />

diff --git a/index.html b/index.html
@@ -3,7 +3,7 @@
   <head>
     <meta charset="UTF-8" />
     <meta name="viewport" content="width=device-width, initial-scale=1.0" />
-    <meta name="theme-color" content="#05070c" />
+    <meta name="theme-color" content="#02070a" />
     <meta name="color-scheme" content="dark" />
     <title>Konstantin Tovshtein</title>
     <meta name="description" content="Portfolio of Konstantin Tovshtein, a BBA student at Simon Fraser University in Management Information Systems and Accounting, aiming for fintech and information systems." />

diff --git a/stormhacks-gpu.html b/stormhacks-gpu.html
@@ -3,7 +3,7 @@
   <head>
     <meta charset="UTF-8" />
     <meta name="viewport" content="width=device-width, initial-scale=1.0" />
-    <meta name="theme-color" content="#05070c" />
+    <meta name="theme-color" content="#02070a" />
     <meta name="color-scheme" content="dark" />
     <title>CoreShare | StormHacks 2026 | Konstantin Tovshtein</title>
     <meta name="description" content="Case study: CoreShare, a GPU sharing marketplace with Solana wallet sign-in and Devnet payouts, built at StormHacks 2026." />

diff --git a/projects.html b/projects.html
@@ -3,7 +3,7 @@
   <head>
     <meta charset="UTF-8" />
     <meta name="viewport" content="width=device-width, initial-scale=1.0" />
-    <meta name="theme-color" content="#05070c" />
+    <meta name="theme-color" content="#02070a" />
     <meta name="color-scheme" content="dark" />
     <title>Projects | Konstantin Tovshtein</title>
     <meta name="description" content="Projects by Konstantin Tovshtein, including a GPU sharing platform built at StormHacks 2026 and the Beedie Business Analytics Hackathon." />

diff --git a/medusa-events.html b/medusa-events.html
@@ -3,7 +3,7 @@
   <head>
     <meta charset="UTF-8" />
     <meta name="viewport" content="width=device-width, initial-scale=1.0" />
-    <meta name="theme-color" content="#05070c" />
+    <meta name="theme-color" content="#02070a" />
     <meta name="color-scheme" content="dark" />
     <title>Event Manager | Medusa Events | Konstantin Tovshtein</title>
     <meta name="description" content="How Konstantin Tovshtein co-founded and runs Medusa Events, a nightlife and themed events company in Vancouver." />

diff --git a/one-pay.html b/one-pay.html
@@ -3,7 +3,7 @@
   <head>
     <meta charset="UTF-8" />
     <meta name="viewport" content="width=device-width, initial-scale=1.0" />
-    <meta name="theme-color" content="#05070c" />
+    <meta name="theme-color" content="#02070a" />
     <meta name="color-scheme" content="dark" />
     <title>Compliance | One Pay Ltd | Konstantin Tovshtein</title>
     <meta name="description" content="Case study: Konstantin Tovshtein's compliance work at One Pay Ltd for PCI DSS and Visa certification." />
